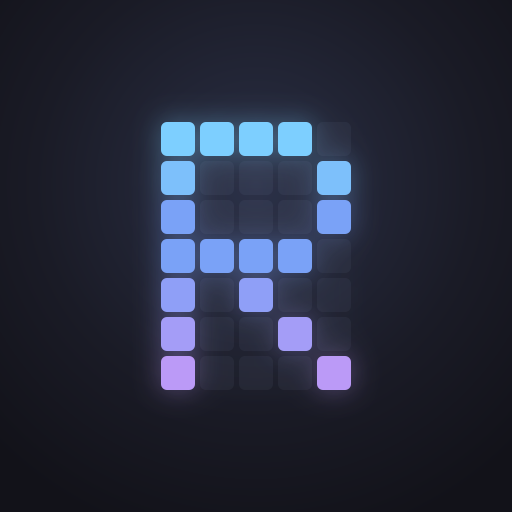
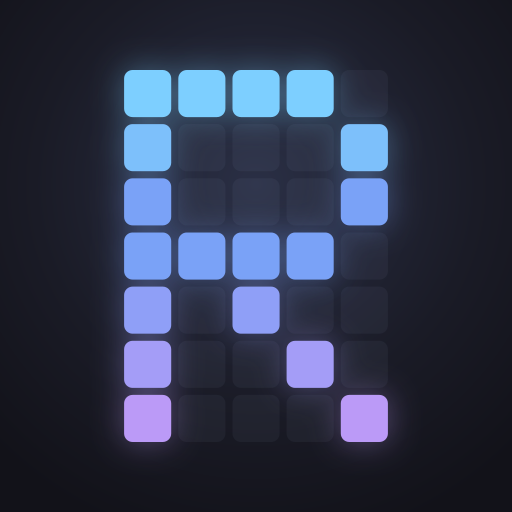
fix: :lipstick: Size the pixel R to fill a circle crop
GitHub, WhatsApp and the lock screen show the square avatar cut to a circle, and the R took up only about half of it, so it looked small and floating, especially at GitHub's 20-40px sizes. The grid is now scaled so its corners sit 28px inside the inscribed circle: as large as it can be without any pixel being cut off. The cursor version is scaled the same way for its wider grid.

Changed region(s): [[0.2188, 0.125, 0.7812, 0.875]]

diff --git a/omarchy/README.md b/omarchy/README.md
@@ -80,7 +80,7 @@ together for different monitors.
 | `bash/.bashrc` | `~/.bashrc` | Omarchy's bashrc plus a tuned `tdl` (tmux dev layout): terminal 20% of the height, AI pane 40% of the width, and focus left on the editor |
 | `nvim/` | `~/.config/nvim` | Omarchy's LazyVim plus the Zorin keymaps, wrapping, explorer, LSP and markdown settings; Omarchy's theme hot-reload and clipboard kept |
 | `claude/` | `~/.claude/` *(file by file)* | Global `CLAUDE.md` (including: open Lavish pages with `browser-here` on Claude's own workspace), the Lavish skill, the tracked `settings.json` keys (attribution off, dark theme, status line), and `statusline.sh`: one short row under the prompt in Tokyo Night colours with the model and effort, context tokens and how full the window is, the session cost, and the 5-hour (with time to reset) and weekly plan usage; it trims itself to fit a narrow window |
-| `avatar/face.png` (`avatar/avatar.svg` is its source; `avatar/avatar-cursor.svg` adds a blinking pixel cursor) | `~/.face` | The avatar on the lock screen: an R as a 5×7 terminal bitmap glyph, its lit pixels shading cyan → blue → purple like the window border, the unlit grid faint, on Tokyo Night navy. Square, with no rim of its own, so the lock screen's ring and any app's circle crop sit cleanly round it; render a larger copy for a profile picture with `rsvg-convert -w 2048 -h 2048 avatar/avatar.svg -o avatar.png` |
+| `avatar/face.png` (`avatar/avatar.svg` is its source; `avatar/avatar-cursor.svg` adds a blinking pixel cursor) | `~/.face` | The avatar on the lock screen: an R as a 5×7 terminal bitmap glyph, its lit pixels shading cyan → blue → purple like the window border, the unlit grid faint, on Tokyo Night navy. Square, with no rim of its own, and sized so the whole grid sits inside a circle crop (GitHub, WhatsApp, the lock screen) with a small margin; render a larger copy for a profile picture with `rsvg-convert -w 2048 -h 2048 avatar/avatar.svg -o avatar.png` |
 
 ### Plain settings `install.sh` applies
 
